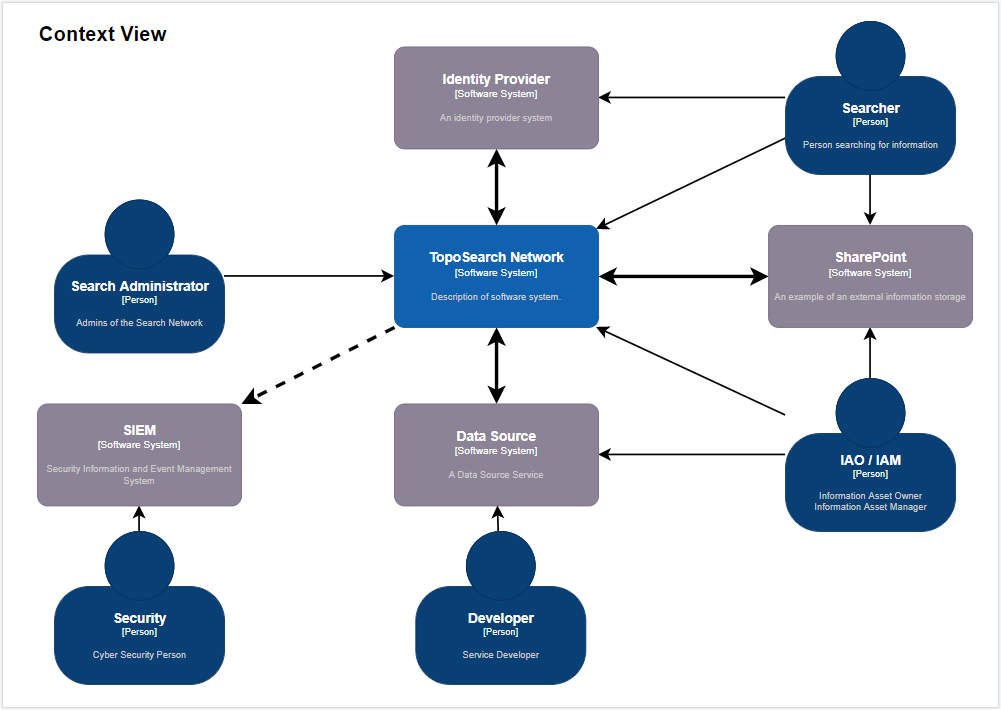
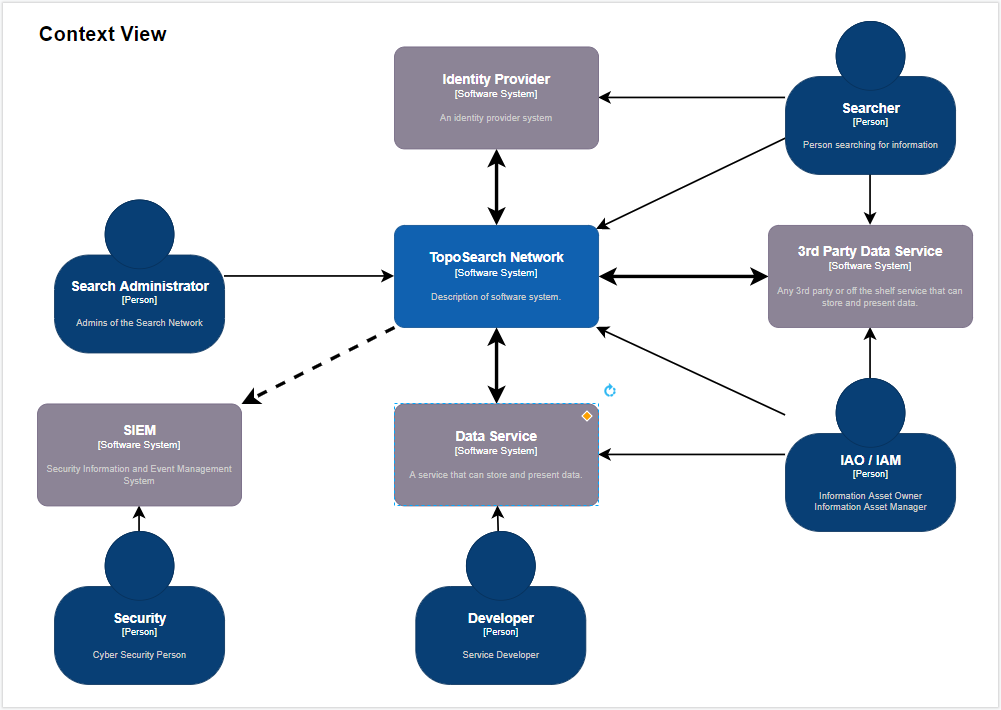
better description of the high level architecutre

diff --git a/docs/architecture.md b/docs/architecture.md
@@ -6,10 +6,21 @@ To document the design of the system I will use the [C4 modelling notation](http
 
 ![Context](./images/c4-context.png)
 
-There are five types of users interacting with the system:
+At the centre of the solution there is **the search network**. It consists of a number of search service instances, typically deployed independently by the organisational units that want to provide search functionality to organisations or people they interact with. 
+
+The search network interacts with four **types of system**:
+
+* **Identity Providers** - the identiy may be important in the search network, and in the source system, however it is not the responsibility of the search network to act as an identity provider. 
+* **Data Service** - any service developed by the organisation which can be closely integrated with the search infrastructure.
+* **3rd Party Data Service** - any service storing data which we cannot modify to integrate closely with the search infrastructure.
+* **Security Information and Event Management (SIEM)** - systems used in cyber security to look for threats.
+
+
+There are five **types of users** interacting with the system:
 
 * The **Searcher** - person looking for information who is at the same time the person who understands the information and can offer feedback.
 * The **Data Service Developer** - person who wants to make the information discoverable. 
 * The **Search Administrator** - person responsible for the operation of the search network.
 * The **Information Asset Owner / Manager** - person responsible for the information stored in the source service and who is responsible for controlling the access to it. 
 * The **Cyber Security Person** - person responsible for maintaing the security of the solution. 
+

diff --git a/README.md b/README.md
@@ -46,6 +46,13 @@ The increasing amount of data, gives rise to a growing number of possible search
 
 &nbsp;
 
+# Architecture
+
+At the moment the project is in a conceptual design stage. Have a look at the [high level architecutre](./docs/architecture.md) as it is developed.
+
+&nbsp;
+
+
 # Technology 
 
 * API: [OpenSearch](https://en.wikipedia.org/wiki/OpenSearch), [OpenAPI](https://swagger.io/specification/), [REST](https://en.wikipedia.org/wiki/Representational_state_transfer), [HAL](https://en.wikipedia.org/wiki/Hypertext_Application_Language), [HATEOAS](https://en.wikipedia.org/wiki/HATEOAS), [JSON-LD](https://json-ld.org/), 
